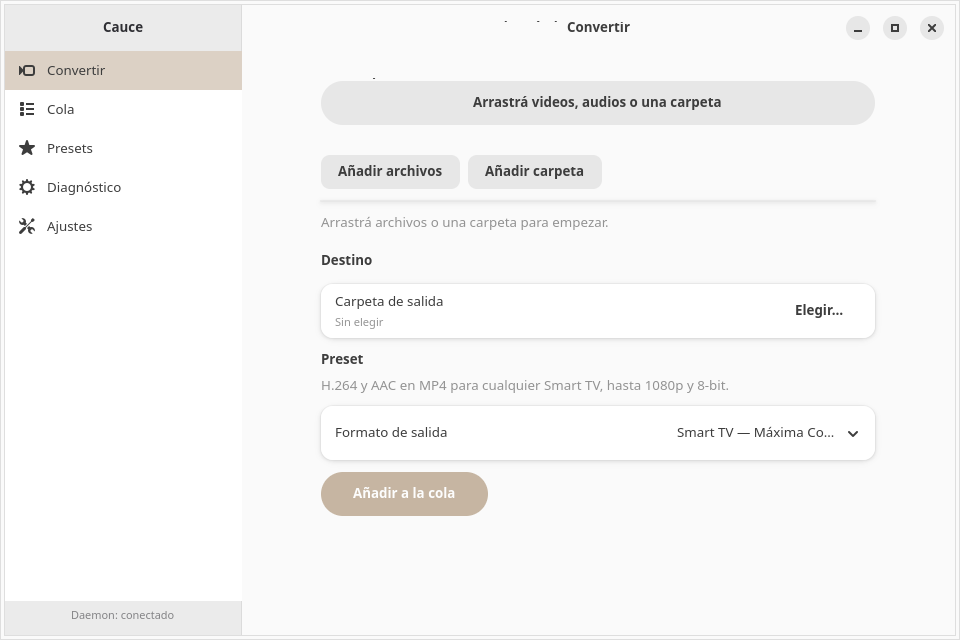
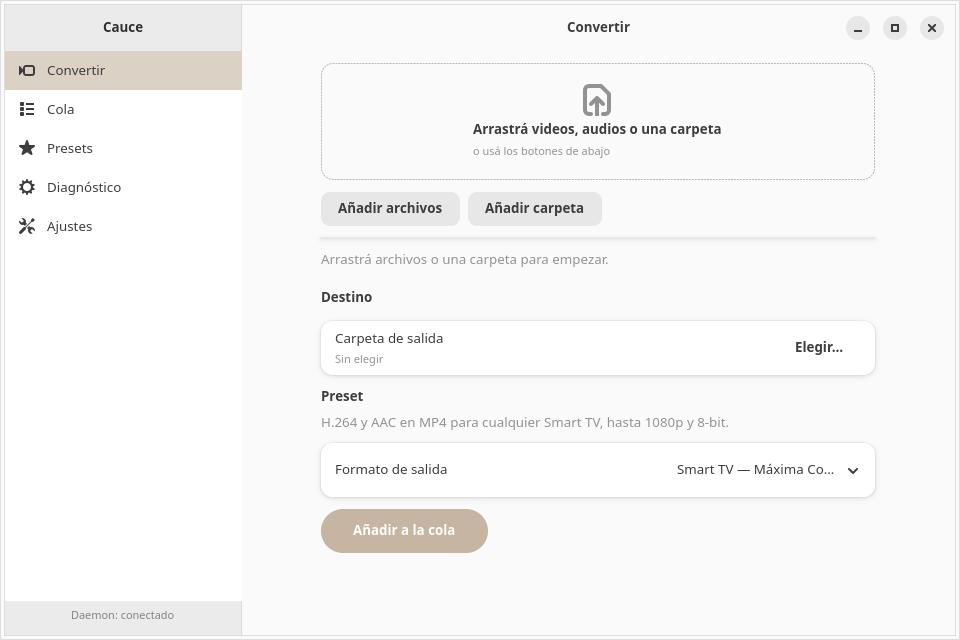
docs(release): record the ux improvements and the new package

diff --git a/odd/tasks/cauce-0.1.md b/odd/tasks/cauce-0.1.md
@@ -739,3 +739,15 @@ Copiados de `architecture.md` §19 y `ui-mvp.md` §170-179; se marcan solo con e
 - **Corte por archivo (líneas totales / líneas autoradas en esta unidad)**: `preset.rs` 495/+424 · `presets.rs` 1013/+595 · `compat.rs` 516/+31 · `lib.rs` 43/+6 · `catalog_contracts.rs` 485/+275 · `compat_video_audio.rs` 444/+96 · `store.rs` 355/+95 · `store_updates.rs` 545/+167 · `dispatch.rs` 587/+95 · `tick.rs` 377/+7 · `ipc_methods.rs` 845/+196 · `pages.rs` 245/+21 · `convert/flows.rs` 444/+48 · `pages_contract.rs` 465/+122 · catálogos `es/en/pt_br` 464/452/461 (+20 cada uno).
 - **Excepción de tamaño documentada**: `preset.rs` (+424) y `presets.rs` (+595) superan las 400 líneas autoradas por archivo. No se pudieron partir porque las superficies autorizadas no admiten archivos nuevos (`pages/presets/custom.rs` o `cauce-core/src/custom.rs` habrían sido los cortes naturales). El resto queda muy por debajo del tope.
 - Sin commit ni push: los cortes quedan en el árbol para la revisión del orquestador.
+
+**L54 (tres mejoras de UX) — implementadas, instaladas y con capturas parciales:**
+- **Sobre S10**: el pedido del usuario autoriza explícitamente **un** preset personalizado en v0.1; queda registrado acá como override consciente. Docs alineados: `contracts.md` §2.3/§6, `ui-mvp.md` §6/§8, `data-model.md` §2.4/§2.5.
+- **Errores humanos**: `i18n::human_error` cubre los 13 `ErrorCode` con frase accionable en ES/EN/PT-BR y fallback; el código crudo vive en "Detalles técnicos" colapsado. Tests de los 13 + fallback + ausencia de `SCREAMING_SNAKE_CASE` visible.
+- **Drop zone**: tarjeta de ancho completo, borde punteado, icono, título/subtítulo propios, estado `drag-over` con acento, múltiples archivos y carpetas (un nivel, sin symlinks), enfocable con Enter/Espacio, CTA visible a 960×640.
+- **Presets por categorías + personalizado**: grupos Smart TV / Web y redes / Archivo / Audio / Personalizado (último); `CustomPreset` con 7 campos, validación de contenedor↔códec, bitrate con copy/none y subtítulos sin pista, persistido en `settings.custom_preset`, expuesto por `presets.set_custom`/`clear_custom`, resuelto por el scheduler con `Daemon::preset` (sin caché global).
+- **Suite 289/289**, 58 suites; `fmt` y `clippy -D warnings` limpios.
[1 lines of base64/hex data omitted]
+- **Servicio**: `cauce.socket` **active** con socket `srw-------`, `cauce.service` **inactive** (correcto: arranca por demanda ante la primera conexión), **NRestarts=0**.
+- **Capturas nuevas**: `01-convertir` (1440, con la tarjeta de drop), `03-presets` (1440, categorías), `06-convertir-960` (960, CTA visible).
+- **Pendientes de captura**: estado `drag-over` y un error humano en pantalla — requieren forzar el arrastre y un fallo real (p. ej. ruta denegada) y no se capturaron en esta pasada. El editor del preset personalizado tampoco tiene captura propia (está dentro de `03-presets`).
+- **Excepción de tamaño**: los commits de GUI (1784) y de jobs+daemon (826) superan 400 líneas; se aceptó para no inventar cortes sobre archivos que el worker no podía crear.

diff --git a/docs/release-notes-0.1.0.md b/docs/release-notes-0.1.0.md
@@ -108,4 +108,4 @@ Two non-fixture AV1 + Opus 1280×720 videos were converted through the **install
 
 Both jobs finished `completed`; the GUI showed "Daemon: conectado" against the real `XDG_RUNTIME_DIR` with both rows marked "Completada". `cauce.socket` was active with `NRestarts=0` after the socket-activation fix.
 
[2 lines of base64/hex data omitted]
